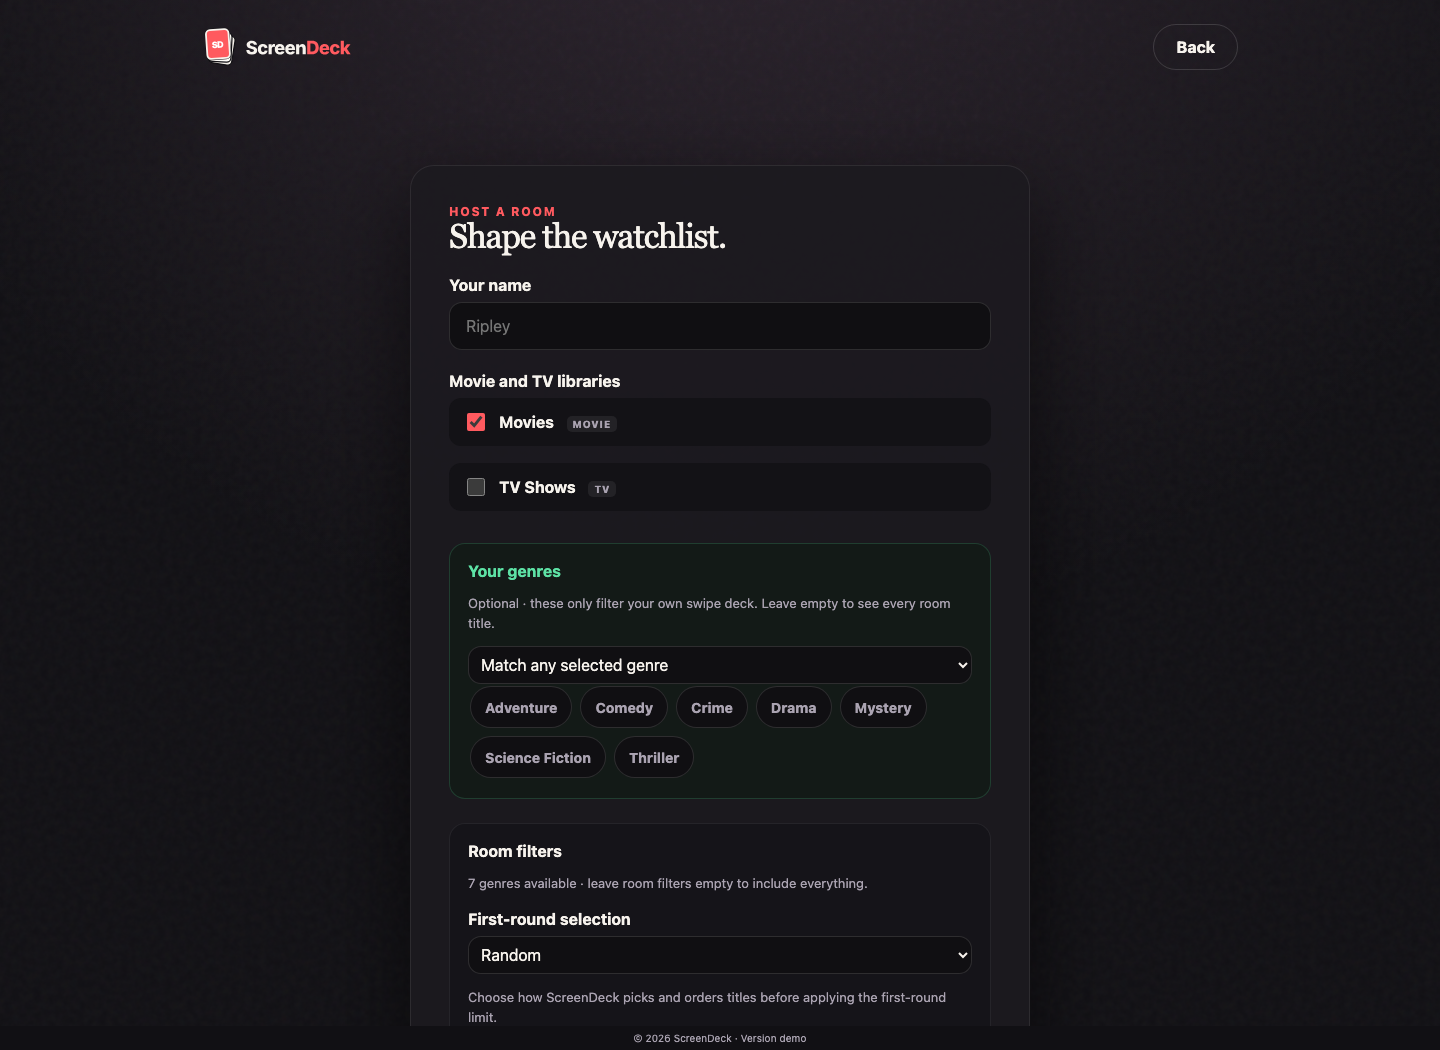
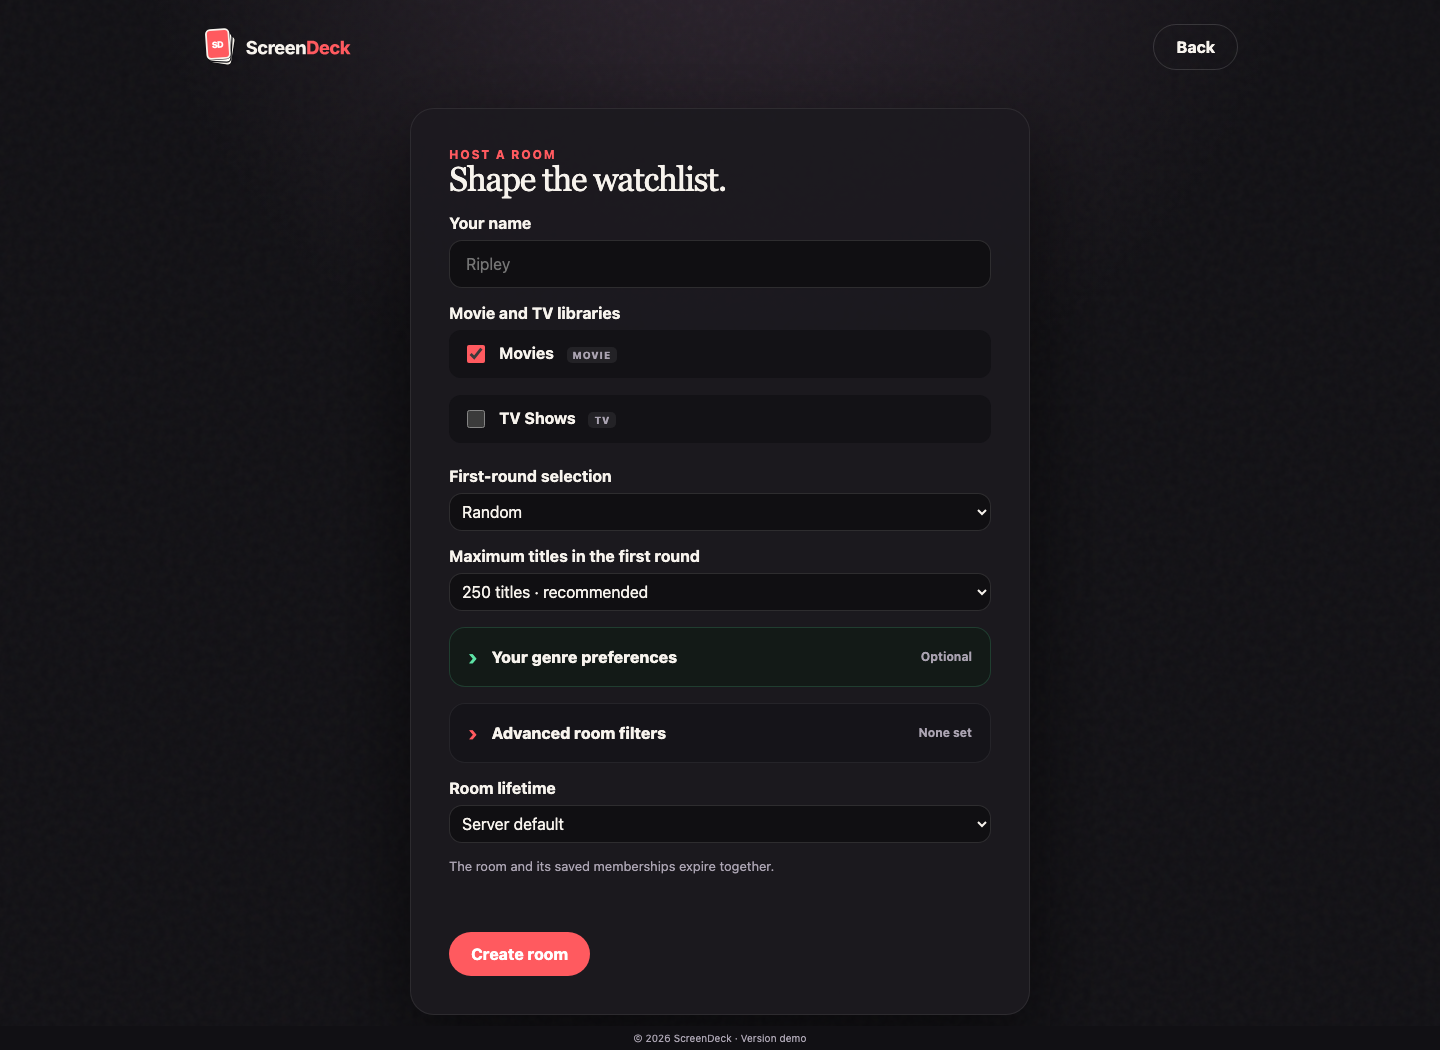
feat(ui): collapse optional room filters

diff --git a/web/src/templates/create-room.html b/web/src/templates/create-room.html
@@ -1,5 +1,5 @@
 <template id="create-room-template">
-  <section class="panel">
+  <section class="panel create-room-panel">
     <div class="eyebrow">Host a room</div>
     <h2>Shape the watchlist.</h2>
 
@@ -24,101 +24,105 @@
         </div>
       </div>
 
-      <section class="filter-box preference-box">
-        <div class="label">Your genres</div>
-        <p class="muted">
-          Optional · these only filter your own swipe deck. Leave empty to see
-          every room title.
-        </p>
-        <select data-ref="genreMode" aria-label="Personal genre matching">
-          <option value="any">Match any selected genre</option>
-          <option value="all">Match all selected genres</option>
+      <div class="form-row">
+        <label for="sampling-strategy">First-round selection</label>
+        <select id="sampling-strategy" data-ref="samplingStrategy">
+          <option value="random">Random</option>
+          <option value="highest_rated">Highest rated</option>
+          <option value="recently_added">Recently added</option>
+          <option value="random_unwatched">Random unwatched</option>
         </select>
-        <div
-          class="genre-chips"
-          data-ref="personalGenres"
-          role="group"
-          aria-label="Your genres"
-        ></div>
-      </section>
+      </div>
 
-      <section class="filter-box">
-        <div class="label">Room filters</div>
-        <p class="muted" data-ref="filterStatus">
-          Choose at least one library to load its filters.
-        </p>
+      <div class="form-row">
+        <label for="round-size">Maximum titles in the first round</label>
+        <select id="round-size" data-ref="roundSize">
+          <option value="50">50 titles</option>
+          <option value="100">100 titles</option>
+          <option value="250" selected>250 titles · recommended</option>
+          <option value="500">500 titles</option>
+          <option value="0">All matching titles</option>
+        </select>
+      </div>
 
-        <div class="form-row compact">
-          <label for="sampling-strategy">First-round selection</label>
-          <select id="sampling-strategy" data-ref="samplingStrategy">
-            <option value="random">Random</option>
-            <option value="highest_rated">Highest rated</option>
-            <option value="recently_added">Recently added</option>
-            <option value="random_unwatched">Random unwatched</option>
-          </select>
+      <details class="filter-box preference-box" data-ref="personalDetails">
+        <summary>
+          <span>Your genre preferences</span>
+          <span class="filter-summary" data-ref="personalSummary"
+            >Optional</span
+          >
+        </summary>
+        <div class="filter-content">
           <p class="muted">
-            Choose how ScreenDeck picks and orders titles before applying the
-            first-round limit.
+            These only filter your own swipe deck. Leave empty to see every room
+            title.
           </p>
-        </div>
-
-        <div class="form-row compact">
-          <label for="round-size">Maximum titles in the first round</label>
-          <select id="round-size" data-ref="roundSize">
-            <option value="50">50 titles</option>
-            <option value="100">100 titles</option>
-            <option value="250" selected>250 titles · recommended</option>
-            <option value="500">500 titles</option>
-            <option value="0">All matching titles</option>
+          <select data-ref="genreMode" aria-label="Personal genre matching">
+            <option value="any">Match any selected genre</option>
+            <option value="all">Match all selected genres</option>
           </select>
-          <p class="muted">
-            Applied after room filters and shuffling. You can ask the group to
-            narrow to the current matches at any time.
-          </p>
-        </div>
-
-        <div class="form-row compact">
-          <div class="label">Room genres · select any that fit</div>
           <div
             class="genre-chips"
-            data-ref="roomGenres"
+            data-ref="personalGenres"
             role="group"
-            aria-label="Room genres"
+            aria-label="Your genres"
           ></div>
         </div>
+      </details>
 
-        <div class="range-grid">
-          <div class="mini-field">
-            <label for="year-from">From year</label>
-            <input
-              id="year-from"
-              data-ref="yearFrom"
-              type="number"
-              min="0"
-              placeholder="1900"
-            />
+      <details class="filter-box" data-ref="roomDetails">
+        <summary>
+          <span>Advanced room filters</span>
+          <span class="filter-summary" data-ref="roomSummary">None set</span>
+        </summary>
+        <div class="filter-content">
+          <p class="muted" data-ref="filterStatus">
+            Choose at least one library to load its filters.
+          </p>
+
+          <div class="form-row compact">
+            <div class="label">Room genres · select any that fit</div>
+            <div
+              class="genre-chips"
+              data-ref="roomGenres"
+              role="group"
+              aria-label="Room genres"
+            ></div>
           </div>
-          <div class="mini-field">
-            <label for="year-to">To year</label>
-            <input id="year-to" data-ref="yearTo" type="number" min="0" />
+
+          <div class="range-grid">
+            <div class="mini-field">
+              <label for="year-from">From year</label>
+              <input
+                id="year-from"
+                data-ref="yearFrom"
+                type="number"
+                min="0"
+                placeholder="1900"
+              />
+            </div>
+            <div class="mini-field">
+              <label for="year-to">To year</label>
+              <input id="year-to" data-ref="yearTo" type="number" min="0" />
+            </div>
+            <div class="mini-field">
+              <label for="max-duration">Maximum movie length</label>
+              <input
+                id="max-duration"
+                data-ref="duration"
+                type="number"
+                min="0"
+                placeholder="Minutes"
+              />
+            </div>
           </div>
-          <div class="mini-field">
-            <label for="max-duration">Maximum movie length</label>
-            <input
-              id="max-duration"
-              data-ref="duration"
-              type="number"
-              min="0"
-              placeholder="Minutes"
-            />
-          </div>
+
+          <label class="check">
+            <input data-ref="unwatchedOnly" type="checkbox" />
+            <span>Only include fully unwatched titles</span>
+          </label>
         </div>
-
-        <label class="check">
-          <input data-ref="unwatchedOnly" type="checkbox" />
-          <span>Only include fully unwatched titles</span>
-        </label>
-      </section>
+      </details>
 
       <div class="form-row">
         <label for="room-lifetime">Room lifetime</label>

diff --git a/web/src/js/create-room.js b/web/src/js/create-room.js
@@ -17,6 +17,7 @@ import {
 export async function renderCreateRoom(navigation) {
   const view = createRoomView(navigation);
   const selectedLibraries = () => selectedLibraryKeys(view.form);
+  wireFilterSummaries(view.filters);
 
   await populateRoomLibraries(view.libraries, view.filters, selectedLibraries);
   view.form.onsubmit = (event) =>
@@ -39,8 +40,12 @@ function createRoomView(navigation) {
     lifetimeHours: refs.lifetimeHours,
     filters: {
       personalGenres: refs.personalGenres,
+      personalDetails: refs.personalDetails,
+      personalSummary: refs.personalSummary,
       genreMode: refs.genreMode,
       status: refs.filterStatus,
+      roomDetails: refs.roomDetails,
+      roomSummary: refs.roomSummary,
       roundSize: refs.roundSize,
       samplingStrategy: refs.samplingStrategy,
       genres: refs.roomGenres,
@@ -115,6 +120,16 @@ async function submitCreateRoom(event, navigation, view, selectedLibraries) {
       "filters.maxDurationMinutes": view.filters.duration,
     });
     if (rendered) {
+      if (requestError.problems?.genreMode) {
+        view.filters.personalDetails.open = true;
+      }
+      if (
+        Object.keys(requestError.problems || {}).some((field) =>
+          field.startsWith("filters."),
+        )
+      ) {
+        view.filters.roomDetails.open = true;
+      }
       view.error.textContent = "Please fix the highlighted fields.";
     } else {
       showError(view.error, requestError);
@@ -162,11 +177,14 @@ async function loadCatalogFilters(libraryKeys, filters) {
       method: "POST",
       body: JSON.stringify({ libraryKeys }),
     });
-    renderGenreChoices(filters.genres, options.genres, selectedRoomGenres);
+    renderGenreChoices(filters.genres, options.genres, selectedRoomGenres, () =>
+      updateFilterSummaries(filters),
+    );
     renderGenreChoices(
       filters.personalGenres,
       options.genres,
       selectedPersonalGenres,
+      () => updateFilterSummaries(filters),
     );
     filters.yearFrom.placeholder = options.minYear
       ? String(options.minYear)
@@ -175,9 +193,44 @@ async function loadCatalogFilters(libraryKeys, filters) {
       ? String(options.maxYear)
       : "To";
     filters.status.textContent = `${options.genres.length} genres available · leave room filters empty to include everything.`;
+    updateFilterSummaries(filters);
   } catch (error) {
     filters.status.textContent = error.message;
   }
+}
+
+// wireFilterSummaries keeps collapsed filter labels synchronized with their controls.
+function wireFilterSummaries(filters) {
+  for (const control of [
+    filters.genreMode,
+    filters.yearFrom,
+    filters.yearTo,
+    filters.duration,
+    filters.watchedBox,
+  ]) {
+    control.addEventListener("input", () => updateFilterSummaries(filters));
+    control.addEventListener("change", () => updateFilterSummaries(filters));
+  }
+  updateFilterSummaries(filters);
+}
+
+// updateFilterSummaries describes active personal and room filters while collapsed.
+function updateFilterSummaries(filters) {
+  const personalCount = selectedGenres(filters.personalGenres).length;
+  filters.personalSummary.textContent = personalCount
+    ? `${personalCount} selected`
+    : "Optional";
+
+  const roomGenres = selectedGenres(filters.genres).length;
+  const summary = [];
+  if (roomGenres) summary.push(`${roomGenres} genres`);
+  if (filters.yearFrom.value) summary.push(`from ${filters.yearFrom.value}`);
+  if (filters.yearTo.value) summary.push(`through ${filters.yearTo.value}`);
+  if (filters.duration.value) summary.push(`≤ ${filters.duration.value} min`);
+  if (filters.watchedBox.checked) summary.push("unwatched");
+  filters.roomSummary.textContent = summary.length
+    ? summary.join(" · ")
+    : "None set";
 }
 
 // filterValues returns normalized room filter values.

diff --git a/web/src/css/app.css b/web/src/css/app.css
@@ -202,6 +202,15 @@ p {
   background: #1b191fe8;
   box-shadow: 0 28px 80px #0008;
 }
+.create-room-panel {
+  margin-top: 3vh;
+}
+.create-room-panel .form-row {
+  margin: 16px 0;
+}
+.create-room-panel .filter-box {
+  margin: 16px 0;
+}
 .form-row {
   margin: 22px 0;
 }
@@ -282,8 +291,49 @@ select option {
   border-color: #5de2a52e;
   background: #131a17;
 }
-.preference-box > .label {
+.filter-box summary {
+  display: flex;
+  align-items: center;
+  justify-content: space-between;
+  gap: 14px;
+  font-weight: 800;
+  cursor: pointer;
+  list-style: none;
+}
+.filter-box summary::-webkit-details-marker {
+  display: none;
+}
+.filter-box summary::before {
+  content: "›";
+  color: var(--red);
+  font-size: 22px;
+  line-height: 1;
+  transition: transform 0.15s;
+}
+.filter-box[open] summary::before {
+  transform: rotate(90deg);
+}
+.preference-box summary::before {
   color: var(--green);
+}
+.filter-summary {
+  max-width: 55%;
+  overflow: hidden;
+  margin-left: auto;
+  color: var(--muted);
+  font-size: 12px;
+  font-weight: 700;
+  text-overflow: ellipsis;
+  white-space: nowrap;
+  text-align: right;
+}
+.filter-content {
+  padding-top: 14px;
+  border-top: 1px solid #ffffff10;
+  margin-top: 14px;
+}
+.filter-content > .muted:first-child {
+  margin-top: 0;
 }
 
 .form-row.compact {

diff --git a/web/src/js/genres.js b/web/src/js/genres.js
@@ -8,13 +8,14 @@ export function selectedGenres(container) {
 }
 
 // renderGenreChoices replaces a container with selectable genre chips.
-export function renderGenreChoices(container, genres, selected = []) {
+export function renderGenreChoices(container, genres, selected = [], onChange) {
   const selectedSet = new Set(selected);
   container.replaceChildren();
   genres.forEach((genre) => {
     const { element: label, refs } = templateElement("genre-chip-template");
     refs.input.value = genre;
     refs.input.checked = selectedSet.has(genre);
+    refs.input.onchange = onChange;
     refs.label.textContent = genre;
     container.append(label);
   });
